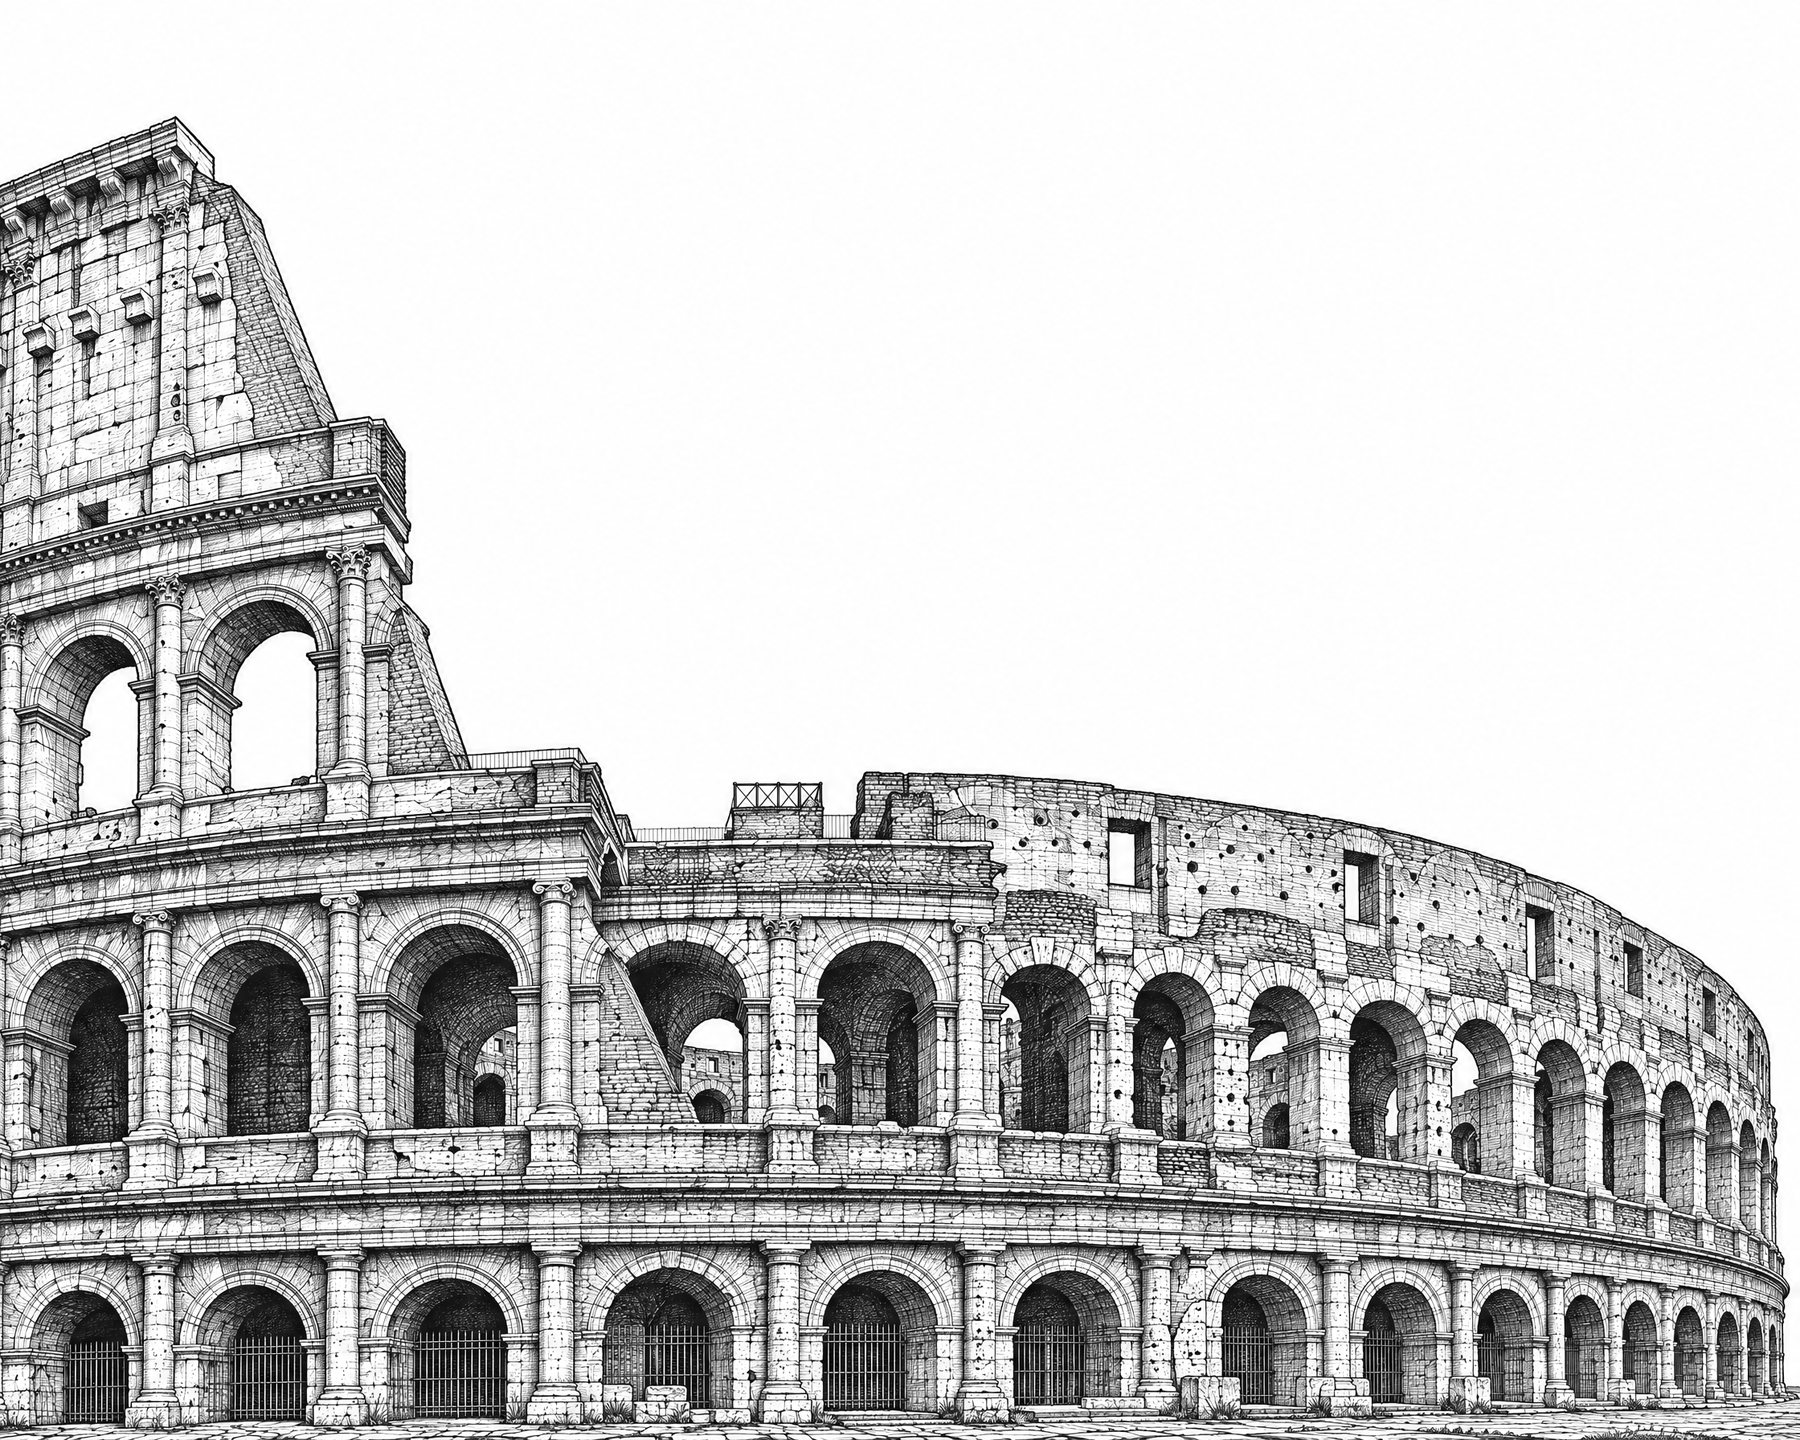
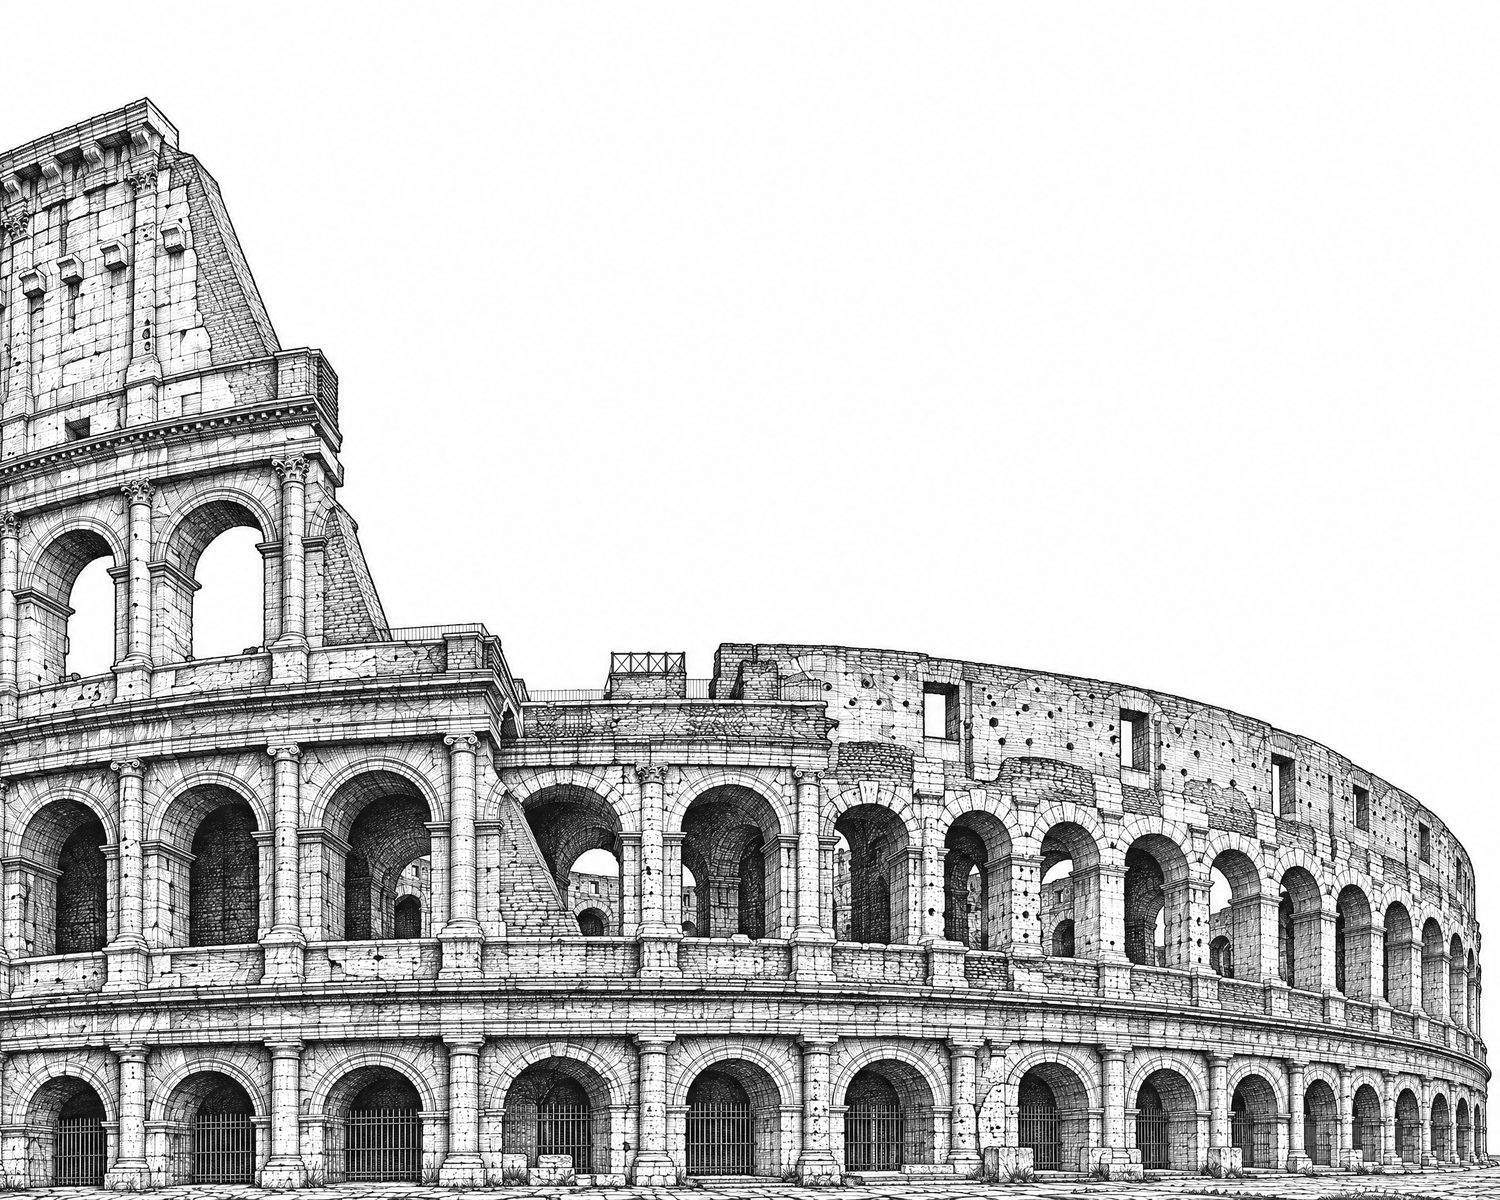
Cycle six wide landmarks in one shared composition
Colosseum, Abuja City Gate, Brooklyn Bridge, Parthenon, Sydney Opera
House and the Great Wall, each drawn tall on the left and sweeping right.

Claude-Session: https://claude.ai/code/session_011hSi7eYaGvpPhfZgrwDW3K

diff --git a/styles.css b/styles.css
@@ -27,6 +27,8 @@ main{position:relative;z-index:1;width:calc(1200*var(--u));margin:0 auto}
 .hero{height:var(--hero);text-align:center;padding-top:calc(96*var(--u));position:relative}
 .hero h1{font-family:var(--display);font-weight:300;font-stretch:96%;font-size:calc(71*var(--u));line-height:calc(66*var(--u));letter-spacing:-.005em}
 .hero h1 span{color:var(--grey)}
+/* a soft white halo keeps the copy readable when a drawing passes behind it */
+.hero h1,.hero p{text-shadow:0 0 calc(10*var(--u)) #fff,0 0 calc(5*var(--u)) #fff,0 0 calc(2*var(--u)) #fff}
 .hero p{font-size:calc(15.5*var(--u));line-height:1.2;color:var(--text);max-width:calc(440*var(--u));margin:calc(24*var(--u)) auto 0;letter-spacing:.005em}
 .btn{display:inline-flex;align-items:center;justify-content:center;width:calc(184*var(--u));height:calc(33*var(--u));margin-top:calc(46*var(--u));background:#1d1d1d;color:#fff;border-radius:calc(4*var(--u));font-size:calc(14.5*var(--u));font-weight:500;letter-spacing:.01em;transition:background .2s}
 .btn:hover{background:#000}

diff --git a/script.js b/script.js
@@ -4,7 +4,12 @@
      Every drawing shares one composition: a tall element down the left edge and
      the rest of the structure sweeping right across the middle of the frame. */
   const SHAPES = [
-    { src: 'assets/shapes/colosseum.jpg', name: 'Rome' }
+    { src: 'assets/shapes/colosseum.jpg', name: 'Rome' },
+    { src: 'assets/shapes/abuja.jpg', name: 'Abuja' },
+    { src: 'assets/shapes/brooklyn.jpg', name: 'New York' },
+    { src: 'assets/shapes/parthenon.jpg', name: 'Athens' },
+    { src: 'assets/shapes/sydney.jpg', name: 'Sydney' },
+    { src: 'assets/shapes/greatwall.jpg', name: 'Beijing' }
   ];
   const HOLD = 4000, MORPH = 950;
   const FRAME_W = 1200, FRAME_H = 960;                      // the reference frame the layout was measured from

diff --git a/index.html b/index.html
@@ -6,7 +6,7 @@
 <title>Build lasting relationships.</title>
 <meta name="description" content="Conversational AI platform for modern financial institutions: agents that handle the full borrower lifecycle across email, SMS, and voice.">
 <link rel="preload" href="assets/fonts/bricolage-grotesque-latin-standard-normal.woff2" as="font" type="font/woff2" crossorigin>
-<link rel="stylesheet" href="styles.css?v=1794474527">
+<link rel="stylesheet" href="styles.css?v=1794474808">
 </head>
 <body>
 
@@ -39,6 +39,6 @@
   </section>
 </main>
 
-<script src="script.js?v=1794474527"></script>
+<script src="script.js?v=1794474808"></script>
 </body>
 </html>

diff --git a/README.md b/README.md
@@ -2,8 +2,9 @@
 
 A hero and "what we do" section where the illustration is drawn from particles.
 The particles hold one landmark for four seconds, burst apart, and re-form as the
-next in under a second: Colosseum, Eiffel Tower, Abuja City Gate, Statue of
-Liberty, New York clock tower.
+next in under a second: Colosseum, Abuja City Gate, Brooklyn Bridge, Parthenon,
+Sydney Opera House, Great Wall of China. All six share one composition: a tall
+element down the left edge and the rest sweeping right across the hero.
 
 Plain HTML, CSS and JavaScript, no build step. The drawings in `assets/shapes/`
 were generated with Higgsfield and are sampled into dots in the browser by
